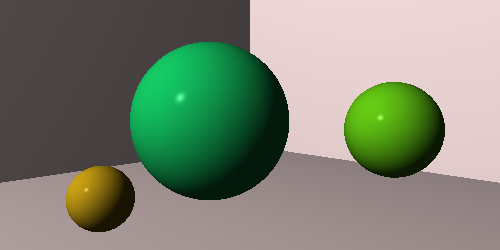
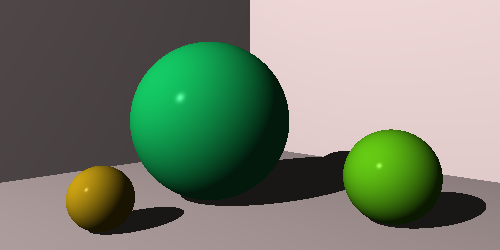
Go ray tracer; render shadow

Changed region(s): [[0.36, 0.308, 0.99, 0.924], [0.18, 0.812, 0.39, 0.952]]

diff --git a/books/gray/figure/material_test.go b/books/gray/figure/material_test.go
@@ -54,9 +54,46 @@ func Test_lighting(t *testing.T) {
 	for _, test := range tests {
 		t.Run(test.name, func(t *testing.T) {
 
-			color := Lighting(DefaultMaterial(), test.light, oned.Point{}, test.eyev, test.normalv)
+			color := Lighting(DefaultMaterial(), test.light, oned.Point{}, test.eyev, test.normalv, false)
 
 			oned.AssertColorEqualInDelta(t, test.expected, color)
+		})
+	}
+}
+
+func Test_lighting_with_surface_in_shadow(t *testing.T) {
+	m := DefaultMaterial()
+	eyeV := oned.Vector{0, 0, -1}
+	normalV := oned.Vector{0, 0, -1}
+	light := PointLight{oned.Point{0, 0, -10}, oned.Color{1, 1, 1}}
+
+	r := Lighting(m, light, oned.Point{}, eyeV, normalV, true)
+
+	assert.Equal(t, oned.Color{0.1, 0.1, 0.1}, r)
+}
+
+func Test_shadow(t *testing.T) {
+	tests := []struct {
+		name     string
+		point    oned.Point
+		expected bool
+	}{
+		{"There is no shadow when nothing is collinear with point and light",
+			oned.Point{0, 10, 0}, false},
+		{"The shadow when an object is between the point and the light",
+			oned.Point{10, -10, 10}, true},
+		{"There is no shadow when an object is behind the light",
+			oned.Point{-20, 20, -20}, false},
+		{"There is no shadow when an object is behind the point",
+			oned.Point{-2, 2, -2}, false},
+	}
+	for _, test := range tests {
+		t.Run(test.name, func(t *testing.T) {
+			w := defaultWorld()
+
+			r := w.IsShadowed(test.point)
+
+			assert.Equal(t, test.expected, r)
 		})
 	}
 }

diff --git a/books/gray/oned/vector_test.go b/books/gray/oned/vector_test.go
@@ -50,7 +50,7 @@ func Test_negate_negates_all_points(t *testing.T) {
 func Test_magnitude_of_1_0_0(t *testing.T) {
 	v := Vector{1, 0, 0}
 
-	result := v.magnitude()
+	result := v.Magnitude()
 
 	assert.Equal(t, 1.0, result)
 }
@@ -58,7 +58,7 @@ func Test_magnitude_of_1_0_0(t *testing.T) {
 func Test_magnitude_of_0_1_0(t *testing.T) {
 	v := Vector{0, 1, 0}
 
-	result := v.magnitude()
+	result := v.Magnitude()
 
 	assert.Equal(t, 1.0, result)
 }
@@ -66,7 +66,7 @@ func Test_magnitude_of_0_1_0(t *testing.T) {
 func Test_magnitude_of_0_0_1(t *testing.T) {
 	v := Vector{0, 0, 1}
 
-	result := v.magnitude()
+	result := v.Magnitude()
 
 	assert.Equal(t, 1.0, result)
 }
@@ -74,7 +74,7 @@ func Test_magnitude_of_0_0_1(t *testing.T) {
 func Test_magnitude_of_1_2_3(t *testing.T) {
 	v := Vector{1, 2, 3}
 
-	result := v.magnitude()
+	result := v.Magnitude()
 
 	assert.Equal(t, math.Sqrt(14), result)
 }
@@ -82,7 +82,7 @@ func Test_magnitude_of_1_2_3(t *testing.T) {
 func Test_magnitude_of_m1_m2_m3(t *testing.T) {
 	v := Vector{-1, -2, -3}
 
-	result := v.magnitude()
+	result := v.Magnitude()
 
 	assert.Equal(t, math.Sqrt(14), result)
 }
@@ -106,7 +106,7 @@ func Test_normalizing_vector_1_2_3(t *testing.T) {
 func Test_magnitude_of_normalized_vector(t *testing.T) {
 	v := Vector{1, 2, 3}
 
-	result := v.Normalize().magnitude()
+	result := v.Normalize().Magnitude()
 
 	assert.Equal(t, 1.0, result)
 }

diff --git a/books/gray/figure/world_test.go b/books/gray/figure/world_test.go
@@ -93,6 +93,33 @@ func Test_color_with_intersection_behind_ray(t *testing.T) {
 	oned.AssertColorEqualInDelta(t, materialBuilder().SetAmbient(1).Build().Color, c)
 }
 
+func Test_shade_hit_is_given_intersection_in_shadow(t *testing.T) {
+	s1 := MakeSphere()
+	s2 := MakeSphereT(multid.Translation(0, 0, 10))
+	w := World{
+		PointLight{oned.Point{0, 0, -10}, oned.Color{1, 1, 1}},
+		[]Shape{s1, s2},
+	}
+	r := Ray{oned.Point{0, 0, 5}, oned.Vector{0, 0, 1}}
+	i := Inter{4, s2}
+	comps := i.PrepareComputations(r)
+
+	color := w.ShadeHit(comps)
+
+	assert.Equal(t, oned.Color{0.1, 0.1, 0.1}, color)
+}
+
+func Test_hit_should_offset_point(t *testing.T) {
+	r := Ray{oned.Point{0, 0, -5}, oned.Vector{0, 0, 1}}
+	s := MakeSphereT(multid.Translation(0, 0, 1))
+	i := Inter{5, s}
+
+	comps := i.PrepareComputations(r)
+
+	assert.Less(t, comps.OverPoint.Z, -oned.Delta/2)
+	assert.Less(t, comps.OverPoint.Z, comps.Point.Z)
+}
+
 //util
 func defaultWorld() World {
 	s1 := MakeSphereM(materialBuilder().Build())

diff --git a/books/gray/figure/intersection.go b/books/gray/figure/intersection.go
@@ -16,21 +16,26 @@ func (i Inter) PrepareComputations(r Ray) Computations {
 	comps.Object = i.Object
 	comps.Point = r.Position(comps.Distance)
 	comps.EyeV = r.Direction.Negate()
-	comps.NormalV = comps.Object.NormalAt(comps.Point)
-	if comps.NormalV.Dot(comps.EyeV) < 0 {
-		comps.Inside = true
-		comps.NormalV = comps.NormalV.Negate()
+
+	normalV := comps.Object.NormalAt(comps.Point)
+	comps.Inside = normalV.Dot(comps.EyeV) < 0
+	if comps.Inside {
+		comps.NormalV = normalV.Negate()
+	} else {
+		comps.NormalV = normalV
 	}
+	comps.OverPoint = comps.Point.AddVector(comps.NormalV.MultiplyScalar(oned.Delta))
 	return comps
 }
 
 type Computations struct {
-	Distance float64
-	Object   Shape
-	Point    oned.Point
-	EyeV     oned.Vector
-	NormalV  oned.Vector
-	Inside   bool
+	Distance  float64
+	Object    Shape
+	Point     oned.Point
+	EyeV      oned.Vector
+	NormalV   oned.Vector
+	Inside    bool
+	OverPoint oned.Point
 }
 
 type Inters []Inter

diff --git a/books/gray/oned/gassert.go b/books/gray/oned/gassert.go
@@ -5,12 +5,9 @@ import (
 	"testing"
 )
 
-//todo move to separate package?
-const delta = 0.000009
-
 //todo move to test file?
 func AssertVectorEqualInDelta(t *testing.T, expected, actual Vector) {
-	assert.InDeltaMapValues(t, vectorToMap(expected), vectorToMap(actual), delta)
+	assert.InDeltaMapValues(t, vectorToMap(expected), vectorToMap(actual), Delta)
 }
 func vectorToMap(v Vector) map[string]float64 {
 	return map[string]float64{"X": v.X, "Y": v.Y, "Z": v.Z}
@@ -18,7 +15,7 @@ func vectorToMap(v Vector) map[string]float64 {
 
 //todo move to test file?
 func AssertColorEqualInDelta(t *testing.T, expected, actual Color) {
-	assert.InDeltaMapValues(t, colorToMap(expected), colorToMap(actual), delta)
+	assert.InDeltaMapValues(t, colorToMap(expected), colorToMap(actual), Delta)
 }
 func colorToMap(v Color) map[string]float64 {
 	return map[string]float64{"R": v.R(), "G": v.G(), "B": v.B()}

diff --git a/books/gray/figure/world.go b/books/gray/figure/world.go
@@ -22,7 +22,12 @@ func (w World) Intersect(ray Ray) Inters {
 }
 
 func (w World) ShadeHit(comps Computations) oned.Color {
-	return Lighting(comps.Object.Material(), w.Light, comps.Point, comps.EyeV, comps.NormalV)
+	return Lighting(comps.Object.Material(),
+		w.Light,
+		comps.Point,
+		comps.EyeV,
+		comps.NormalV,
+		w.IsShadowed(comps.OverPoint))
 }
 
 func (w World) ColorAt(r Ray) oned.Color {
@@ -30,4 +35,13 @@ func (w World) ColorAt(r Ray) oned.Color {
 		return w.ShadeHit(inter.PrepareComputations(r))
 	}
 	return oned.Color{}
+}
+
+func (w World) IsShadowed(point oned.Point) bool {
+	v := w.Light.Position.SubtractPoint(point)
+	distance := v.Magnitude()
+	direction := v.Normalize()
+	intersections := w.Intersect(Ray{point, direction})
+	hit, inter := intersections.Hit()
+	return hit && inter.Distance < distance
 }

diff --git a/books/gray/figure/material.go b/books/gray/figure/material.go
@@ -24,12 +24,12 @@ func DefaultMaterial() Material {
 	}
 }
 
-func Lighting(material Material, light PointLight, point oned.Point, eyev oned.Vector, normalv oned.Vector) oned.Color {
+func Lighting(material Material, light PointLight, point oned.Point, eyev oned.Vector, normalv oned.Vector, inShadow bool) oned.Color {
 	effectiveColor := material.Color.Multiply(light.Intensity)
 	lightv := light.Position.SubtractPoint(point).Normalize()
 	ambient := effectiveColor.MultiplyByScalar(material.Ambient)
 	lightDotNormal := lightv.Dot(normalv)
-	if lightDotNormal < 0 {
+	if lightDotNormal < 0 || inShadow {
 		return ambient
 	}
 	diffuse := effectiveColor.MultiplyByScalar(material.Diffuse).MultiplyByScalar(lightDotNormal)
@@ -91,4 +91,3 @@ func (mb *MaterialBuilder) Build() Material {
 		Shininess: mb.shininess,
 	}
 }
-

diff --git a/books/gray/oned/vector.go b/books/gray/oned/vector.go
@@ -28,12 +28,12 @@ func (t Vector) MultiplyScalar(scalar float64) Vector {
 	return Vector(Tuple(t).multiplyScalar(scalar))
 }
 
-func (t Vector) magnitude() float64 { //todo: move to Tuple?
+func (t Vector) Magnitude() float64 { //todo: move to Tuple?
 	return math.Sqrt(t.X*t.X + t.Y*t.Y + t.Z*t.Z)
 }
 
 func (t Vector) Normalize() Vector { //todo: move to Tuple?
-	magnitude := t.magnitude()
+	magnitude := t.Magnitude()
 	return Vector{t.X / magnitude, t.Y / magnitude, t.Z / magnitude}
 }
 

diff --git a/books/gray/samples/ball_3d_sample_test.go b/books/gray/samples/ball_3d_sample_test.go
@@ -45,7 +45,7 @@ func Test_ball_3d_sample(t *testing.T) {
 				normal := h.Object.NormalAt(point)
 				eye := ray.Direction.Negate()
 
-				canvas.Pixels[x][y] = figure.Lighting(h.Object.Material(), light, point, eye, normal)
+				canvas.Pixels[x][y] = figure.Lighting(h.Object.Material(), light, point, eye, normal, false)
 			}
 		}
 	}

diff --git a/books/gray/samples/ball_scene_sample_test.go b/books/gray/samples/ball_scene_sample_test.go
@@ -40,7 +40,7 @@ func Test_ball_scene_sample(t *testing.T) {
 			SetSpecular(0.3).Build())
 
 	right := figure.MakeSphereTM(
-		multid.Translation(1.5, 1, -0.5).
+		multid.Translation(1.5, 0.5, -0.5).
 			Multiply(multid.Scaling(0.5, 0.5, 0.5)),
 		figure.MakeMaterialBuilder().
 			SetColor(oned.Color{0.5, 1, 0.1}).

diff --git a/books/gray/oned/tuple.go b/books/gray/oned/tuple.go
@@ -1,5 +1,7 @@
 package oned
 
+const Delta = 0.000009
+
 type Tuple struct {
 	X, Y, Z float64
 }
